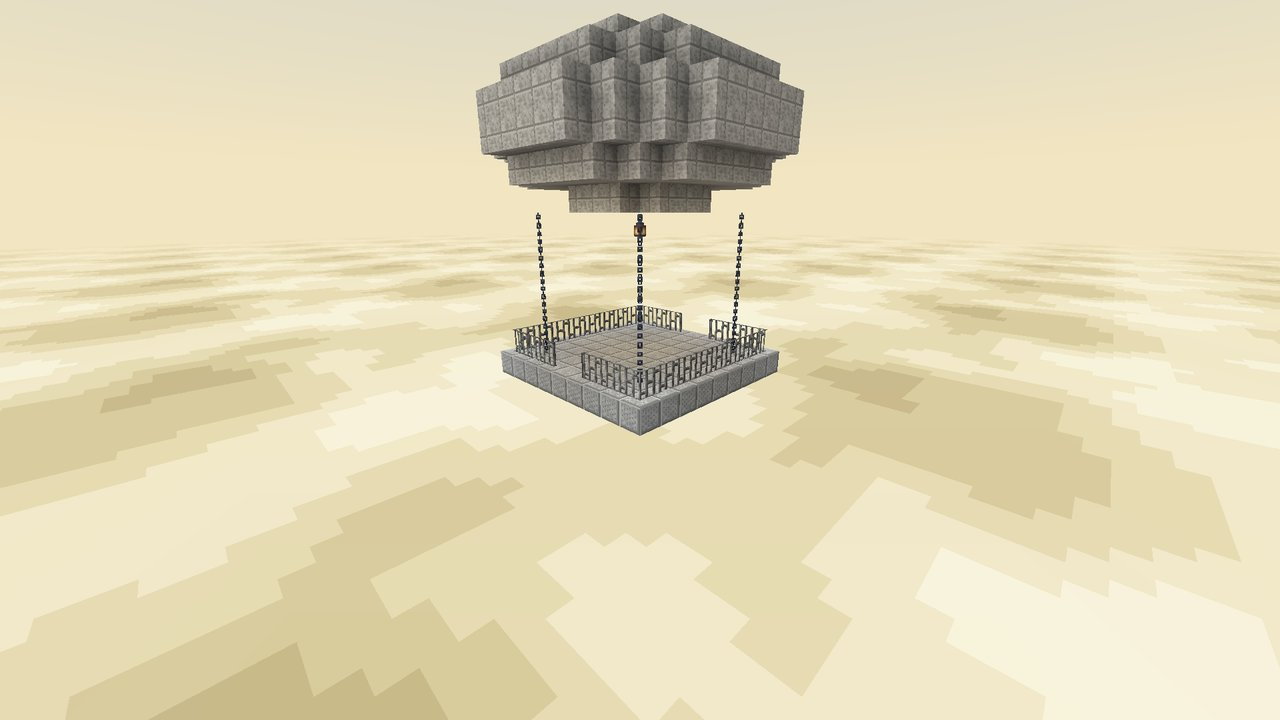
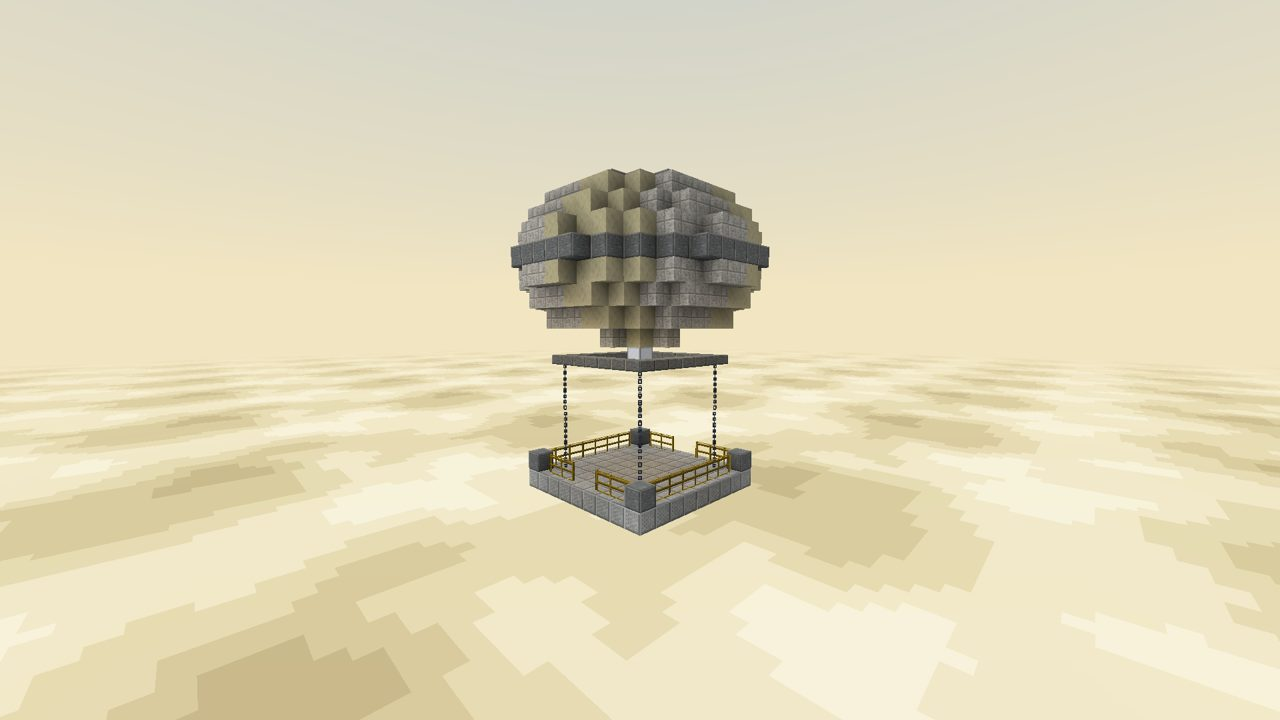
Aerostat kit: the same envelope language as the research aerostats
The kit now inflates a round two-tone gored envelope with a grey equator ring and cap over a load ring and an LED lamp; the deck gets a safety railing with two gates and mooring cleats at the corners. Same 9x9 deck and rules.

diff --git a/src/main/java/com/pizzaparker07/spacebreaker/content/venus/AerostatKitItem.java b/src/main/java/com/pizzaparker07/spacebreaker/content/venus/AerostatKitItem.java
@@ -14,7 +14,6 @@ import net.minecraft.world.item.TooltipFlag;
 import net.minecraft.world.level.Level;
 import net.minecraft.world.level.block.Block;
 import net.minecraft.world.level.block.Blocks;
-import net.minecraft.world.level.block.LanternBlock;
 import net.minecraft.world.level.block.state.BlockState;
 
 import java.util.List;
@@ -74,42 +73,65 @@ public class AerostatKitItem extends Item {
         return 0;
     }
 
-    /** Builds the platform with its deck centred at {@code deck}; returns the number of blocks placed. */
+    /**
+     * Builds the platform with its deck centred at {@code deck}; returns the number of blocks placed. A 9x9 composite deck
+     * with a safety railing (a gate on two sides) and mooring cleats at the corners, rigging up to a load ring, and
+     * above it a round envelope in the same two-tone gores as the research aerostats, with a grey equator ring and cap.
+     */
     public static int deploy(Level level, BlockPos deck) {
         int n = 0;
         BlockState panel = VenusModule.COMPOSITE_PANEL.get().defaultBlockState();
         BlockState fabric = VenusModule.ENVELOPE_FABRIC.get().defaultBlockState();
+        BlockState gold = Blocks.SMOOTH_SANDSTONE.defaultBlockState();
+        BlockState ring = Blocks.POLISHED_ANDESITE.defaultBlockState();
+        BlockState rail = com.pizzaparker07.spacebreaker.content.rocketry.base.BaseBlocks.RAILING.get().defaultBlockState();
         for (int dx = -HALF; dx <= HALF; dx++) {
             for (int dz = -HALF; dz <= HALF; dz++) {
                 n += put(level, deck.offset(dx, 0, dz), panel);
-                if (Math.abs(dx) == HALF || Math.abs(dz) == HALF) {
-                    boolean gate = dx == 0 && Math.abs(dz) == HALF;
-                    if (!gate) {
-                        n += put(level, deck.offset(dx, 1, dz), Blocks.IRON_BARS.defaultBlockState());
-                    }
+            }
+        }
+        for (int dx = -HALF; dx <= HALF; dx++) {
+            for (int dz = -HALF; dz <= HALF; dz++) {
+                boolean edge = Math.abs(dx) == HALF || Math.abs(dz) == HALF;
+                boolean corner = Math.abs(dx) == HALF && Math.abs(dz) == HALF;
+                boolean gate = dx == 0 && Math.abs(dz) == HALF;
+                if (corner) {
+                    n += put(level, deck.offset(dx, 1, dz), ring); // mooring cleat
+                } else if (edge && !gate) {
+                    n += put(level, deck.offset(dx, 1, dz), rail);
                 }
             }
         }
-        // rigging from the deck corners up to the envelope
+        // rigging from the deck corners in to a load ring under the envelope
         for (int[] c : new int[][]{{-3, -3}, {-3, 3}, {3, -3}, {3, 3}}) {
             for (int dy = 1; dy <= 6; dy++) {
                 n += put(level, deck.offset(c[0], dy, c[1]), Blocks.CHAIN.defaultBlockState());
             }
         }
-        // the lift envelope: a flattened ellipsoid shell of fabric
-        for (int dx = -5; dx <= 5; dx++) {
-            for (int dz = -5; dz <= 5; dz++) {
-                for (int dy = 0; dy <= 5; dy++) {
-                    double e = dx * dx / 30.0 + dz * dz / 30.0 + (dy - 2.5) * (dy - 2.5) / 7.5;
-                    double inner = dx * dx / 18.0 + dz * dz / 18.0 + (dy - 2.5) * (dy - 2.5) / 3.5;
-                    if (e <= 1 && inner > 1) {
-                        n += put(level, deck.offset(dx, 7 + dy, dz), fabric);
-                    }
+        for (int dx = -3; dx <= 3; dx++) {
+            for (int dz = -3; dz <= 3; dz++) {
+                if (Math.abs(dx) == 3 || Math.abs(dz) == 3) {
+                    n += put(level, deck.offset(dx, 7, dz), Blocks.POLISHED_ANDESITE_SLAB.defaultBlockState());
                 }
             }
         }
-        n += put(level, deck.offset(0, 6, 0), Blocks.LANTERN.defaultBlockState().setValue(LanternBlock.HANGING, true));
-        n += put(level, deck.offset(0, 7, 0), Blocks.CHAIN.defaultBlockState());
+        // the envelope: a round shell in gores, with a grey ring at its equator and a cap on top
+        int cy = 12;
+        for (int dx = -6; dx <= 6; dx++) {
+            for (int dz = -6; dz <= 6; dz++) {
+                for (int dy = 8; dy <= 16; dy++) {
+                    double e = (dx * dx + dz * dz) / 40.0 + (dy - cy) * (dy - cy) / 18.0;
+                    double inner = (dx * dx + dz * dz) / 26.0 + (dy - cy) * (dy - cy) / 9.5;
+                    if (e > 1 || inner <= 1) {
+                        continue;
+                    }
+                    int gore = (int) Math.floor((Math.atan2(dz, dx) + Math.PI) / (Math.PI / 4));
+                    BlockState st = dy == cy ? ring : dy >= 16 ? ring : gore % 2 == 0 ? fabric : gold;
+                    n += put(level, deck.offset(dx, dy, dz), st);
+                }
+            }
+        }
+        n += put(level, deck.offset(0, 7, 0), com.pizzaparker07.spacebreaker.content.rocketry.base.BaseBlocks.LED_PANEL.get().defaultBlockState());
         return n;
     }
 }

diff --git a/src/testmod/java/com/pizzaparker07/spacebreaker/testmod/showcase/VenusScenario.java b/src/testmod/java/com/pizzaparker07/spacebreaker/testmod/showcase/VenusScenario.java
@@ -119,7 +119,7 @@ final class VenusScenario implements ShowcaseScenario {
         s.add(new ShowcaseDriver.Shot("08b_aerostat_gondola_outside", 0, AX + 23.5, AY + 5, AZ - 11.5, 20F, 7F, true, fp, 100, at(0.22), null));
         s.add(new ShowcaseDriver.Shot("09_aerostat_gondola", 0, AX + 12.5, AY + 3.6, AZ + 7.5, -40F, 4F, true, fp, 80, at(0.22), null));
         s.add(new ShowcaseDriver.Shot("09b_aerostat_bridge", 0, AX + 17.5, AY + 3.6, AZ + 8.5, -90F, 4F, true, fp, 80, at(0.22), null));
-        s.add(new ShowcaseDriver.Shot("11_aerostat_kit_base", 0, KX + 14.5, KY + 7, KZ + 14.5, 135F, 18F, true, fp, 140, at(0.22), null));
+        s.add(new ShowcaseDriver.Shot("11_aerostat_kit_base", 0, KX + 18.5, KY + 9, KZ + 18.5, 135F, 4F, true, fp, 140, at(0.22), null));
         s.add(new ShowcaseDriver.Shot("10_sunset_above_clouds", 0, PX + 0.5, PY + 6, PZ + 0.5, -90F, 2F, true, fp, 120, at(0.49), null));
         return s;
     }

diff --git a/src/testmod/java/com/pizzaparker07/spacebreaker/testmod/mars/VenusGameTests.java b/src/testmod/java/com/pizzaparker07/spacebreaker/testmod/mars/VenusGameTests.java
@@ -195,7 +195,7 @@ public final class VenusGameTests {
         int placed = com.pizzaparker07.spacebreaker.content.venus.AerostatKitItem.deploy(level, deck);
         int panels = 0;
         int fabric = 0;
-        for (BlockPos p : BlockPos.betweenClosed(deck.offset(-6, 0, -6), deck.offset(6, 13, 6))) {
+        for (BlockPos p : BlockPos.betweenClosed(deck.offset(-6, 0, -6), deck.offset(6, 17, 6))) {
             panels += level.getBlockState(p).is(VenusModule.COMPOSITE_PANEL.get()) ? 1 : 0;
             fabric += level.getBlockState(p).is(VenusModule.ENVELOPE_FABRIC.get()) ? 1 : 0;
         }

diff --git a/docs/CONTENT.md b/docs/CONTENT.md
@@ -188,7 +188,7 @@ Her içerik paketi gerçek istemcide vitrin dünyasında fotoğraflanır; onayda
 | 🎨 | Bloklar ve eşyalar | Venüs Bazaltı, Kavrulmuş Çakıl, Tessera Kayası, Kükürt Kabuğu (→ kükürt), Metal Kırağısı; Hafif Kompozit Panel, Aerojel, Balon Kumaşı; Floropolimer Kaplama (zırh + kaplama → aside dayanıklı zırh) |
 | 🎨 | Zindan | Terk Edilmiş Araştırma Balonu (bulut tepelerinde, Asit Vatozu muhafızları; yeniden tasarım: iki tonlu dilimli uzun zarf, her 4 blokta gri çerçeve halkası, üstte ince güneş filmi şeridi ve tahliye vanaları, artı biçimli kuyruk yüzgeçleri, pilonlu iki motor bölmesi; altında kablolarla asılı, kaburgalı sekizgen gondol ve altın renkli asit kaplama şeridi; içinde mürettebat yatakları, araştırma tezgâhı ve atmosfer işlemcili laboratuvar, camlı köprüde konsollar ve harita masası, tavanda kablo ve boru kanalları, yanan/sönük LED'ler, duvara gömülü Malzeme Dolapları; asidin yiyip kükürt kabuğu bağladığı kıç bölmesi hava kilidi kapısıyla kapatılmış; korkuluklu iskele; köprüde kısa son kayıt tabelası) |
 | 🎨 | Venüs İniş Sondası | yüzey (464 °C, 92 bar) insana kapalı; bulut katmanından bırakılır, paraşütle iner, yüzeye değince sahibine 2 Venüs numunesi + iniş verisi gönderir, sonra 1 dakikada ısıdan susar; tarif: zarf kumaşı, aerojel, devre, tungsten |
-| 🎨 | Aerostat Platform Kiti | bulut kuşağında (≈1 bar, oda sıcaklığı) kullanılınca yüzen bir üs şişirir: 9×9 kompozit güverte, kapılı korkuluk, halatlar, fener ve kaldırma gazı zarfı; yalnız boş havaya yerleşir; tarif: zarf kumaşı + Kaldırma Gazı Kesesi + kompozit panel + zincir |
+| 🎨 | Aerostat Platform Kiti | bulut kuşağında (≈1 bar, oda sıcaklığı) kullanılınca yüzen bir üs şişirir: 9×9 kompozit güverte, iki kapılı emniyet korkuluğu ve köşelerde bağlama babaları, yük halkasına çıkan halatlar, altında LED lamba ve araştırma balonlarıyla aynı dilde yuvarlak zarf (iki tonlu dilimler, gri ekvator halkası ve tepe kapağı); yalnız boş havaya yerleşir; tarif: zarf kumaşı + Kaldırma Gazı Kesesi + kompozit panel + zincir |
 
 ### Merkür `spacebreaker:mercury`
 | Durum | İçerik | Not |
